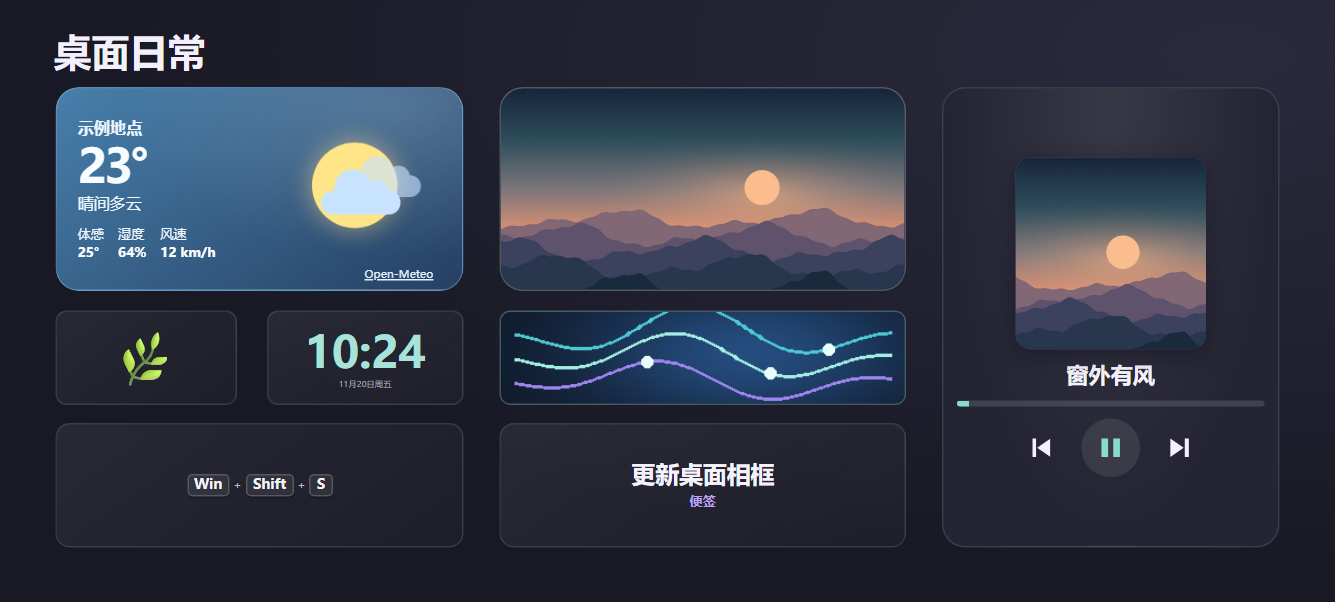
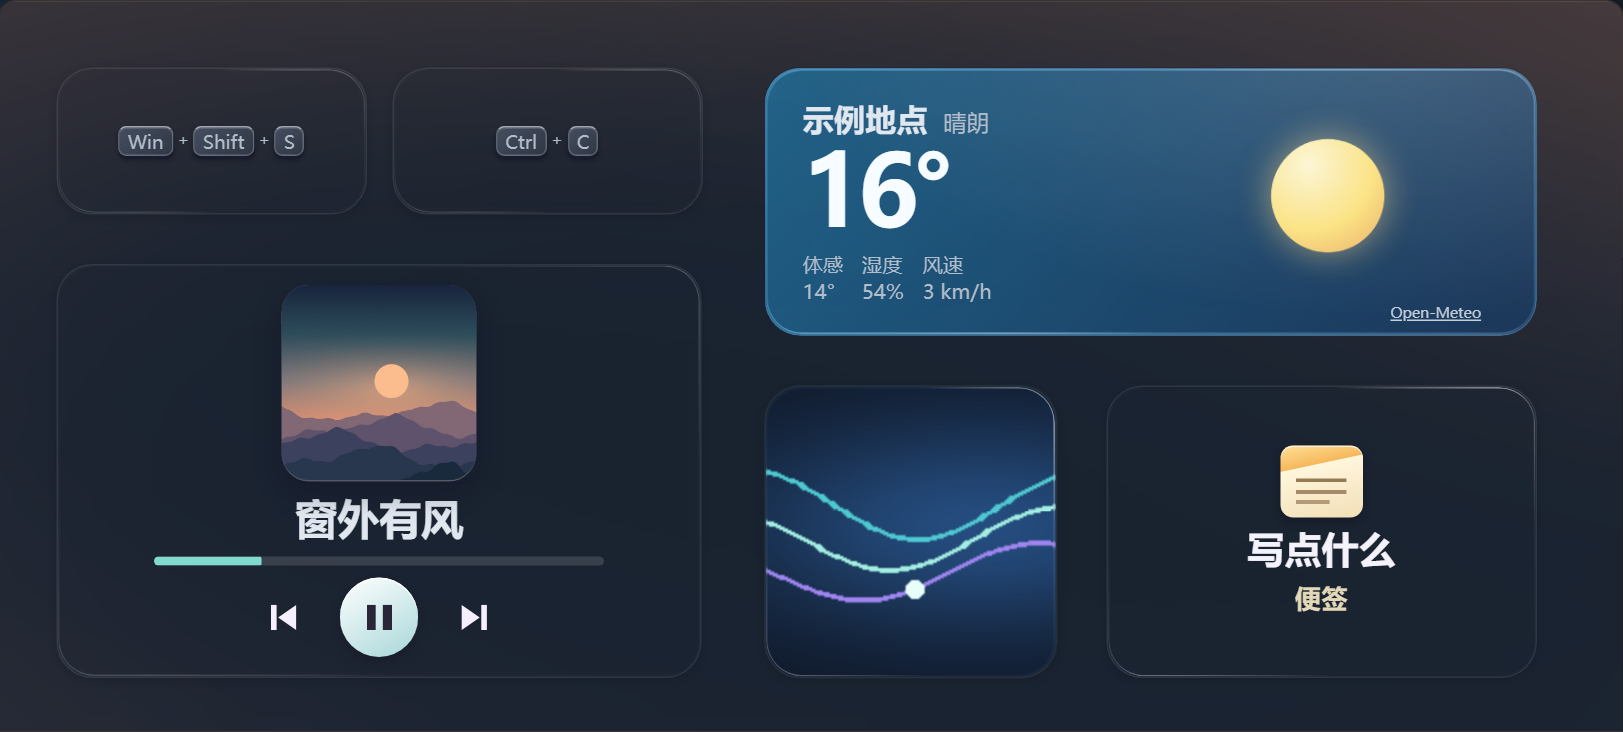
Refresh the README and product screenshots

diff --git a/README.md b/README.md
@@ -4,40 +4,42 @@
 
 [在线体验](https://kdwbll.github.io/desk-side-display/) · [使用说明](使用说明.md) · [参与贡献](CONTRIBUTING.md) · [MIT 许可证](LICENSE)
 
-![通过 USB 连接的安卓手机横放在显示器下方的支架上，屏幕显示项目的逐字歌词演示](docs/screenshots/desk-setup.jpg)
+[![手机横放在显示器下方的支架上，屏幕显示专辑流光与逐字歌词](docs/screenshots/demo-device.jpg)](https://kdwbll.github.io/desk-side-display/)
 
-桌面布置实拍，手机屏幕替换为项目的演示画面。
-
-打开在线体验，可直接点击照片里的手机屏幕，在下方控制面板切页、播放或调整歌词外观。演示音乐静音，快捷键和便签只在网页内模拟。
+点击上图打开在线演示。可以左右切页、操作卡片，也能在网页控制面板调整歌词外观和组件布局。演示静音，Windows 动作在网页内模拟。桌面场景使用实拍照片，屏幕内为当前版本的演示画面。
 
 ## 手机上能看到什么
 
-![安卓手机的横屏歌词模式，左侧为封面、歌名和歌手，右侧有五行歌词，当前句高亮到「我」字](docs/screenshots/android-lyrics.webp)
+![横屏歌词页左侧显示封面和曲名，右侧的当前句高亮扫过「我」字，屏幕边缘露出更多歌词](docs/screenshots/android-lyrics.webp)
 
-**歌词模式**。曲名和歌手位于封面下方。当前歌词在右侧区域居中，上下文延伸到屏幕边缘，唱过和待唱的歌词带透明度与模糊效果，切行时平滑过渡。有逐字时间戳的歌曲会按字高亮，其余匹配到同步时间轴的歌曲会按句高亮。
+**逐字歌词与专辑流光**。背景从封面提取主色，让色块沿平滑的随机路径移动。高亮用柔和的灰白渐变扫过正在唱的字。每行提前 0.1 秒开始切换，逐字高亮继续跟随校准后的时间戳。上下文延伸到屏幕边缘，透明度和模糊度可调。
 
 | 全屏时钟预设 | 全屏相框预设 |
 | --- | --- |
 | ![时钟模式，横屏中央显示当前时间和日期](docs/screenshots/android-clock.webp) | ![相框模式，横屏显示群山与落日](docs/screenshots/android-photo.webp) |
 
-以上画面截自通过 USB 连接的安卓手机。歌词、封面和照片使用演示内容。两种全屏预设可在控制面板按需添加。
+时钟和相框可在控制面板按需添加。每个页面都可单独开启专辑流光。
 
-![横屏卡片页包含天气、山景图片、Emoji、时钟、GIF、截图快捷键、便签及音乐播放器](docs/screenshots/android-widget-dashboard.png)
+![横屏卡片页包含两张快捷键卡片、音乐播放器、天气、GIF 和便签](docs/screenshots/android-widget-dashboard.png)
 
-手机左右滑动切换页面。一页最多放 8 张卡片，总计最多 10 页。图中的便签可轻点，在 Windows 桌面生成一个 TXT 并用记事本打开。卡片示例使用演示配置。
+**自定义卡片**。手机左右滑动切页，每页最多 8 张卡片，总计最多 10 页。可添加天气、音乐、快捷键、便签、时钟、图片和 GIF 等卡片。启用相应权限后，点击便签可在 Windows 桌面新建并打开 TXT，点击快捷键卡片可发送预设的按键。切回页面时，天气和剪贴板会直接显示上次的内容，再按各自的间隔刷新。
 
-![横屏硬件监控预览，四张圆环卡片分别显示 CPU、GPU、内存和 GPU 温度](docs/screenshots/hardware-dashboard.png)
+| 硬件监控 | 剪贴板历史 |
+| --- | --- |
+| ![四张圆环卡片显示 CPU、GPU、内存和 GPU 温度的示例读数](docs/screenshots/hardware-dashboard.png) | ![流光背景上的剪贴板历史卡片，显示三条示例文本](docs/screenshots/android-clipboard.png) |
 
-硬件监控页可显示 Windows 实时采样的 CPU、GPU、内存和温度。
+硬件监控可显示 Windows 的实时读数。剪贴板历史支持文本、图片和文件名，启用组件动作后可点选条目粘贴到 Windows。上图中的歌词、封面、照片、天气、硬件读数和剪贴板内容均为演示数据。
 
 ## Windows 控制面板
 
-<img src="docs/screenshots/windows-widget-layout.png" width="740" alt="Windows 控制面板的页面顺序、横屏预览和组件像素宽高输入">
+![新版 Windows 控制面板的左侧栏目导航、页面顺序、横屏预览和组件像素宽高输入](docs/screenshots/windows-widget-layout.png)
 
-- **界面与小组件**用于排序页面、添加预设和挑选组件。拖动卡片会吸附到附近卡片的边缘或中心。拉伸可匹配等宽等高，选中卡片后也可输入像素宽高。
+- **界面与小组件**把页面顺序和横屏预览放在同一区域。可直接拖动、缩放和吸附对齐卡片，或输入像素宽高，保存后同步到手机。
 - **组件数据源与权限**用于设置天气地点，启用便签等组件动作，以及配置剪贴板历史、窗口信息和自定义数据源。也可使用 AI 生成可导入的 JSON 组件。 [小组件规范](docs/widget-api.md)
-- **歌词外观**支持实时预览颜色、背景、不透明度和模糊度，最多保存 10 组预设。
-- **Apple Music**支持切歌、暂停、导入 LRC 或 TTML，以及校准全曲或指定时段的歌词。默认提前 1.3 秒。
+- **歌词外观**支持实时预览歌词颜色、上下文不透明度、模糊度、流光速度和色块过渡，最多保存 10 组预设。
+- **Apple Music**支持切歌、暂停、导入 LRC 或 TTML，以及校准全曲或指定时段的歌词。时间轴默认提前 1.3 秒，可在控制面板微调。
+
+![歌词外观实时预览及流光速度、色块过渡和外观预设](docs/screenshots/windows-control.png)
 
 ## 快速开始
 

diff --git a/使用说明.md b/使用说明.md
@@ -49,7 +49,7 @@
 | 正在播放 | 显示专辑封面、歌名和只读进度条。启用组件动作后，可从手机切歌或播放、暂停。 |
 | 硬件仪表 | 可选 CPU、GPU、内存及温度等指标。硬件监控页自带四张仪表卡。 |
 
-![手机横屏自定义页，包含天气、图片、Emoji、时钟、动图、快捷键、便签和音乐卡片](docs/screenshots/android-widget-dashboard.png)
+![手机横屏自定义页，包含天气、GIF、两个快捷键、便签和音乐卡片](docs/screenshots/android-widget-dashboard.png)
 
 硬件读数取决于设备和驱动。CPU 占用和内存由 Windows 提供，NVIDIA 显卡可用驱动自带的 `nvidia-smi`。部分温度等指标可由正在运行的 LibreHardwareMonitor 提供，缺少读数时显示 `—`。 [LibreHardwareMonitor](https://github.com/LibreHardwareMonitor/LibreHardwareMonitor)
 
@@ -76,7 +76,7 @@
 
 ## 歌词、外观和校准
 
-<img src="docs/screenshots/windows-control.png" width="510" alt="控制面板展示歌词外观预览、颜色和模糊度设置，以及播放和校准按钮">
+<img src="docs/screenshots/windows-control.png" width="740" alt="控制面板展示歌词外观预览、流光速度、色块过渡和外观预设">
 
 - **歌词匹配**。程序优先使用手动导入的歌词，其次使用本地准备好的时间轴，最后通过互联网从 LRCLIB、AMLL 和网易云匹配。首次从 GitHub 下载时，播放器使用在线匹配，也可以手动导入时间轴。 [LRCLIB API](https://lrclib.net/docs) · [AMLL TTML 接口](https://amll.dev/reference/http-api/native)
 - **手机显示**。当前句在右侧歌词区居中，前后各加载五句，按实际屏高显示到上下边缘。最外侧可以只露出半行。周围歌词保留透明度和模糊效果，有逐字时间戳时按字高亮，只有逐句时间戳时按句高亮。

diff --git a/THIRD-PARTY-NOTICES.md b/THIRD-PARTY-NOTICES.md
@@ -24,4 +24,4 @@
 
 ## 文档配图
 
-[桌面布置图](docs/screenshots/desk-setup.jpg)根据 kdwbll 提供的实拍照片制作，手机屏幕叠加项目的原创演示画面。原照片相关权利由拍摄者保留，配图经授权在项目文档中展示。
+[桌面布置图](docs/screenshots/desk-setup.jpg)和 [README 封面](docs/screenshots/demo-device.jpg)使用 kdwbll 提供的实拍照片，手机屏幕叠加项目的原创演示画面。原照片相关权利由拍摄者保留，配图经授权在项目文档中展示。
